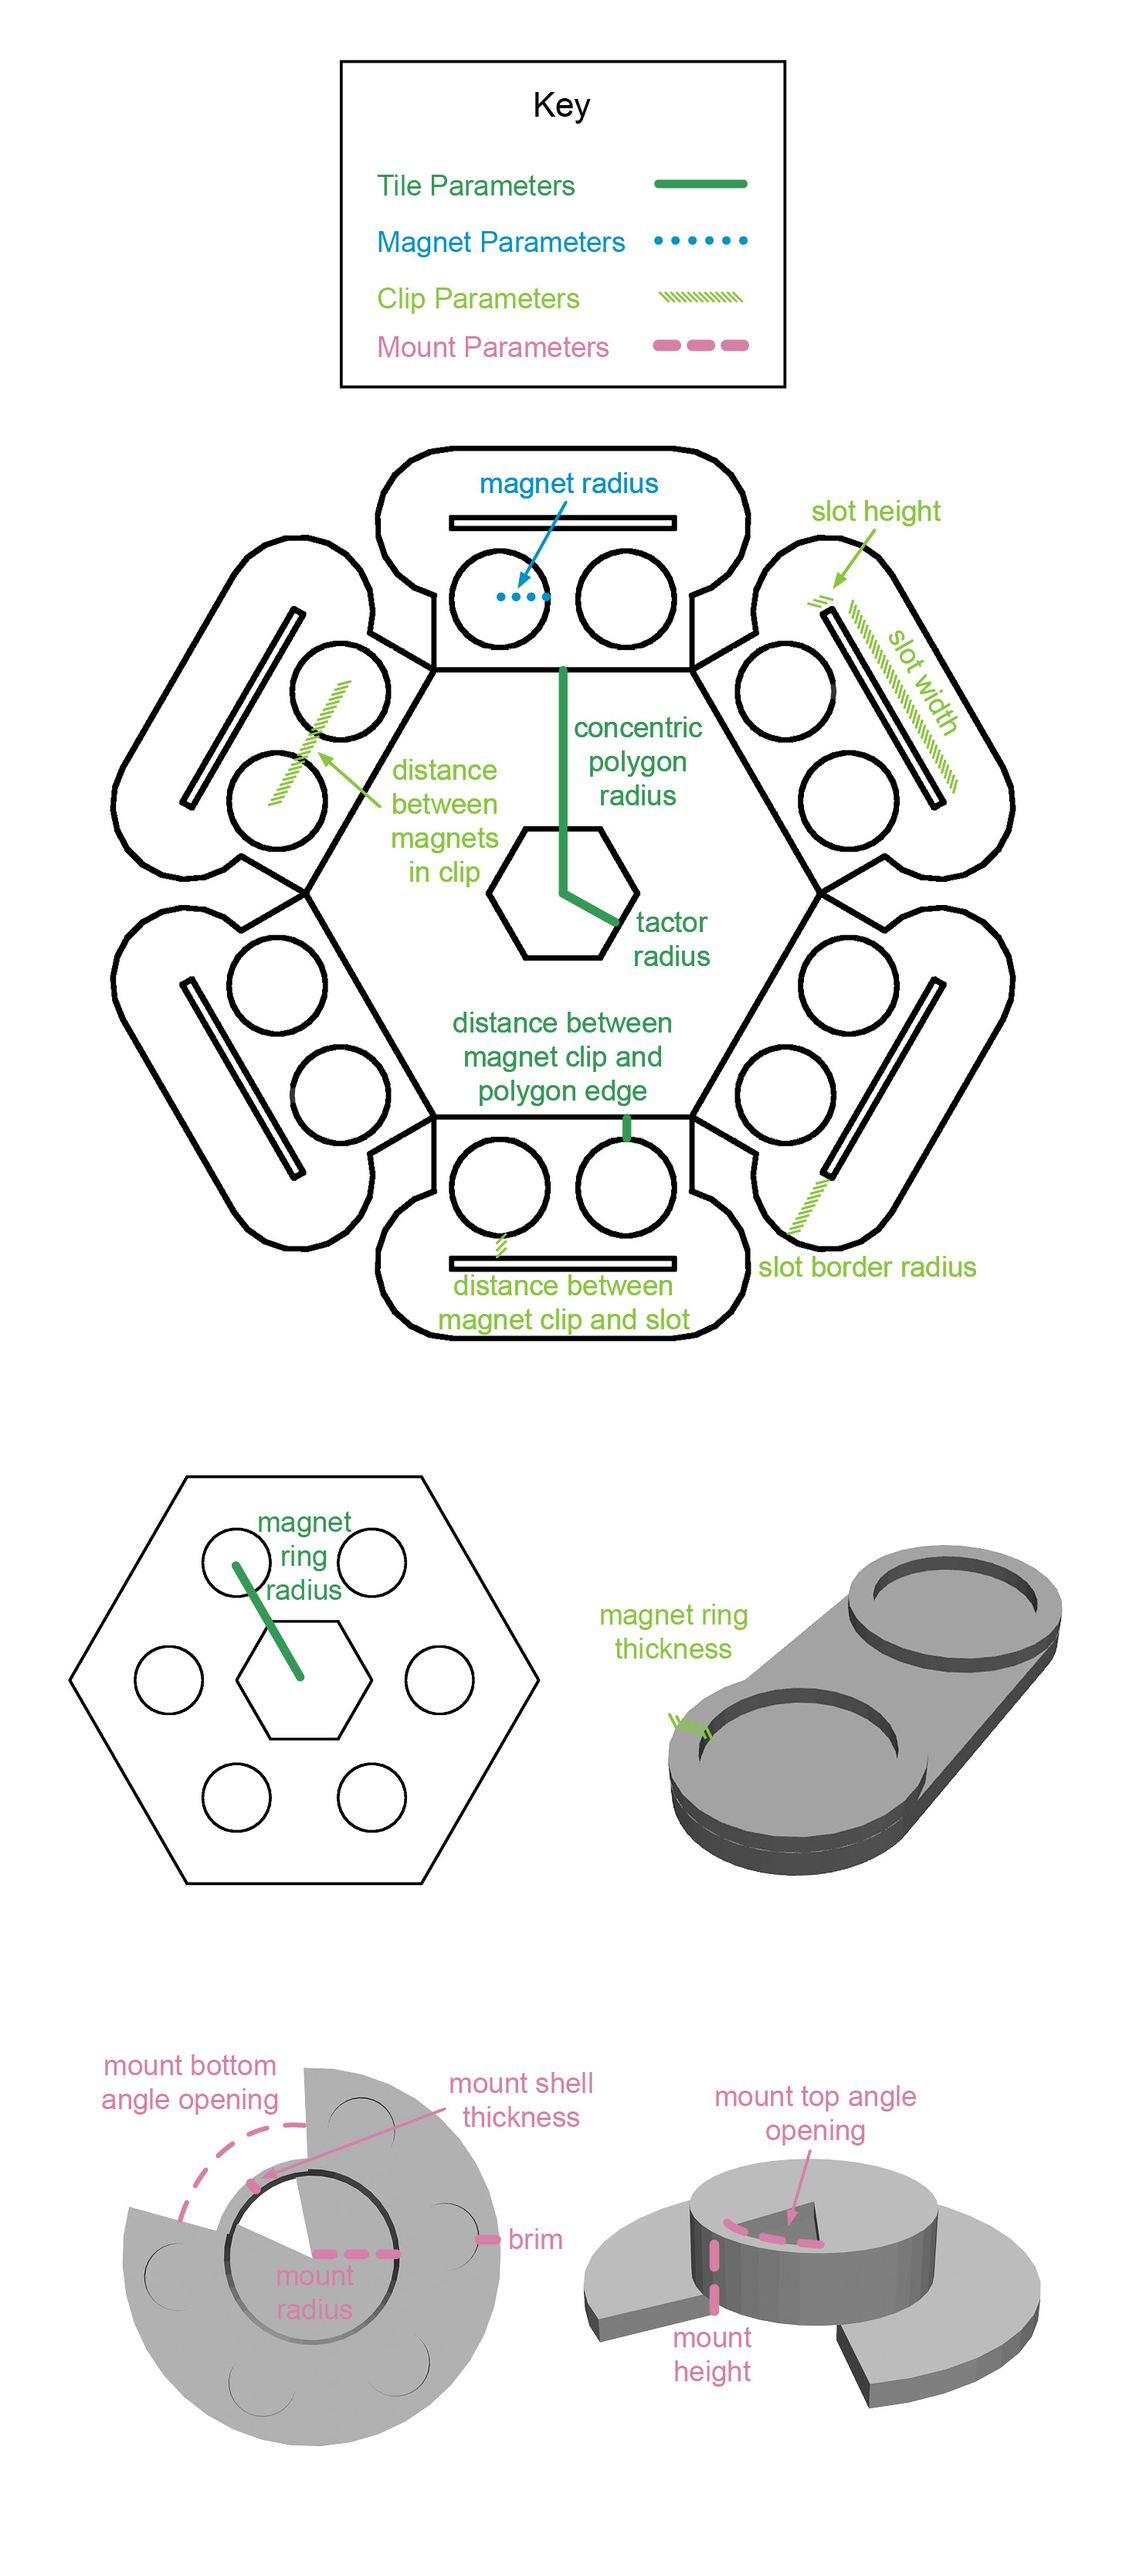
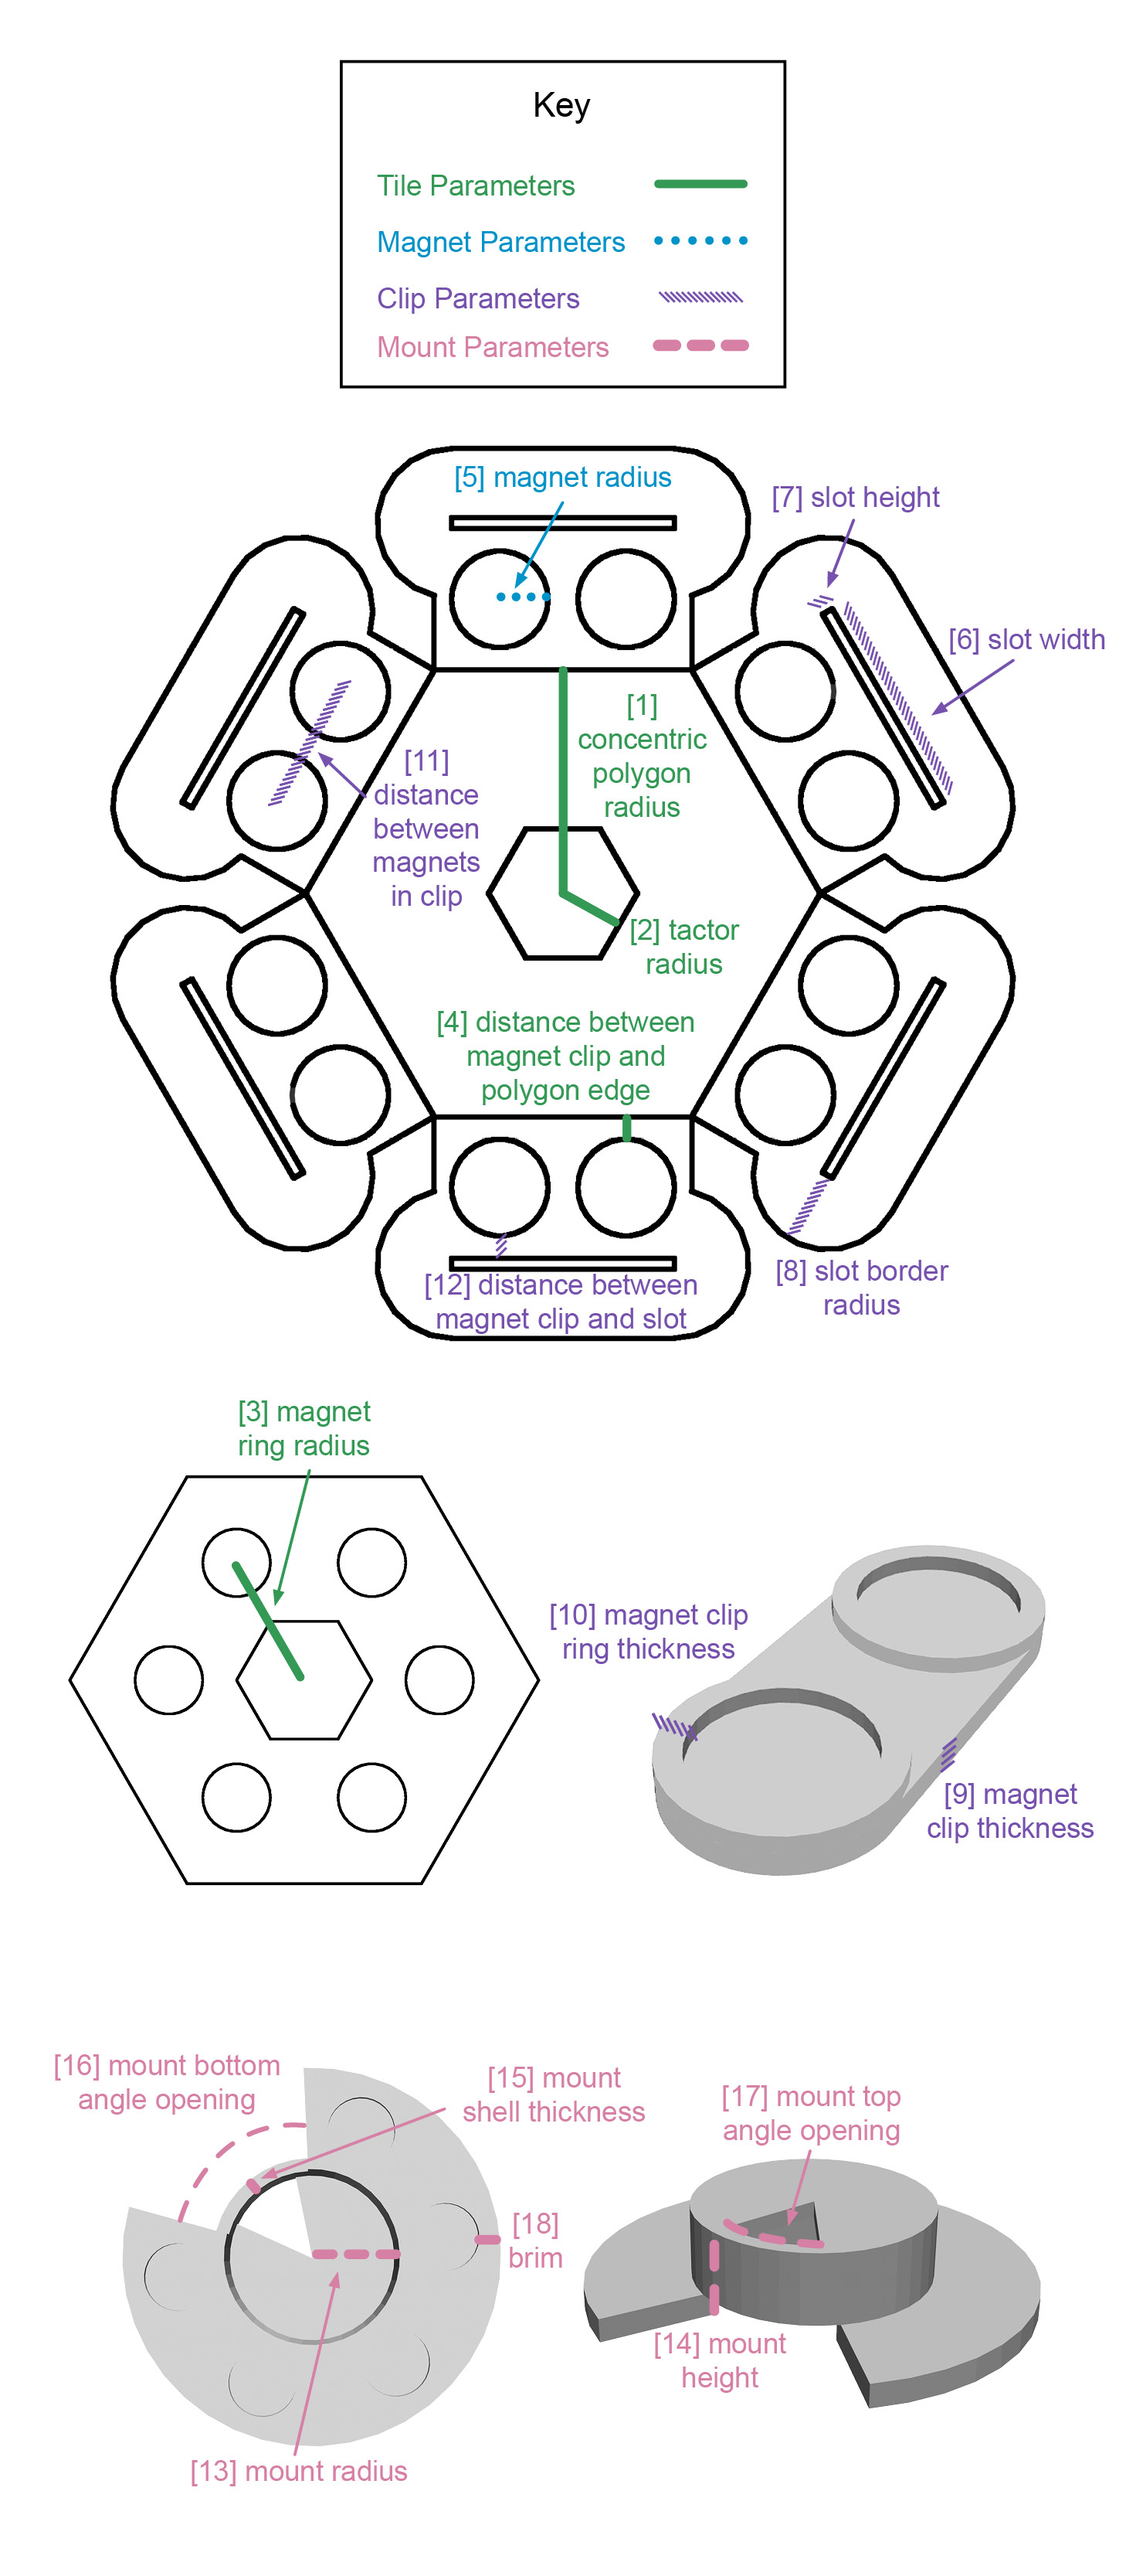
updated diagrams

diff --git a/haptic_harness_generator/GUI.py b/haptic_harness_generator/GUI.py
@@ -6,6 +6,7 @@ from time import perf_counter
 import re
 import os
 from pyvista import Camera
+import numpy as np
 
 current_dir = os.path.dirname(os.path.abspath(__file__))
 rotate_icon_path = os.path.join(current_dir, "rotateIcon.png")
@@ -116,8 +117,30 @@ class MyMainWindow(MainWindow):
             ],
         }
 
+        indexed_attrs = {
+            "concentricPolygonRadius": "1",
+            "tactorRadius": "2",
+            "magnetRingRadius": "3",
+            "distanceBetweenMagnetClipAndPolygonEdge": "4",
+            "magnetRadius": "5",
+            "slotWidth": "6",
+            "slotHeight": "7",
+            "slotBorderRadius": "8",
+            "magnetClipThickness": "9",
+            "magnetClipRingThickness": "10",
+            "distanceBetweenMagnetsInClip": "11",
+            "distanceBetweenMagnetClipAndSlot": "12",
+            "mountRadius": "13",
+            "mountHeight": "14",
+            "mountShellThickness": "15",
+            "mountBottomAngleOpening": "16",
+            "mountTopAngleOpening": "17",
+            "brim": "18",
+        }
+
         unitless = ["numMangetsInRing", "numSides"]
-        radians = ["mountBottomAngleOpening", "mountTopAngleOpening"]
+        degrees = ["mountBottomAngleOpening", "mountTopAngleOpening"]
+        counter = 0
         for header, params in parameter_attributes.items():
             temp_box = QtWidgets.QVBoxLayout()
             temp_box.setAlignment(QtCore.Qt.AlignVCenter)
@@ -130,8 +153,12 @@ class MyMainWindow(MainWindow):
                 formattedAttributeName = re.sub(
                     r"(?<!^)(?=[A-Z])", " ", attributeKey
                 ).title()
-                if attributeKey in radians:
-                    formattedAttributeName += " (radians)"
+                if attributeKey in indexed_attrs.keys():
+                    formattedAttributeName = (
+                        f"[{indexed_attrs[attributeKey]}] " + formattedAttributeName
+                    )
+                if attributeKey in degrees:
+                    formattedAttributeName += " (degrees)"
                 elif attributeKey in unitless:
                     pass
                 else:
@@ -145,6 +172,17 @@ class MyMainWindow(MainWindow):
                         )
                     )
                     le.setText(str(attributeVal))
+                elif (
+                    attributeKey == "mountBottomAngleOpening"
+                    or attributeKey == "mountTopAngleOpening"
+                ):
+                    le = QtWidgets.QLineEdit()
+                    le.setValidator(
+                        QtGui.QRegularExpressionValidator(
+                            QtCore.QRegularExpression("^\d+(\.\d+)?$")
+                        )
+                    )
+                    le.setText(str(round(attributeVal * 180 / np.pi, 2)))
                 else:
                     le = QtWidgets.QLineEdit()
                     le.setValidator(

diff --git a/haptic_harness_generator/Generator.py b/haptic_harness_generator/Generator.py
@@ -112,12 +112,36 @@ class Generator(QRunnable):
     def validate(self):
         messages = []
         tolerance = 1
+        validatable = [
+            "concentricPolygonRadius",
+            "tactorRadius",
+            "numSides",
+            "slotWidth",
+            "slotHeight",
+            "slotBorderRadius",
+            "magnetRadius",
+            "magnetThickness",
+            "magnetRingRadius",
+            "numMangetsInRing",
+            "magnetClipThickness",
+            "magnetClipRingThickness",
+            "distanceBetweenMagnetsInClip",
+            "distanceBetweenMagnetClipAndPolygonEdge",
+            "distanceBetweenMagnetClipAndSlot",
+            "foamThickness",
+            "mountRadius",
+            "mountHeight",
+            "mountShellThickness",
+            "mountBottomAngleOpening",
+            "mountTopAngleOpening",
+            "brim",
+        ]
 
         if self.numSides < 2 or self.numSides > 8:
             messages.append("numSides must be between 2 and 8 inclusive")
 
         for attr, val in vars(self).items():
-            if attr != "userDir" and (val <= 0 or val == None):
+            if attr in validatable and (val <= 0 or val == None):
                 messages.append(f"{attr} must be some positive non-zero value")
 
         if self.tactorRadius >= self.concentricPolygonRadius:
@@ -223,6 +247,13 @@ class Generator(QRunnable):
         else:
             if attrName == "numSides" or attrName == "numMangetsInRing":
                 setattr(self, attrName, int(val))
+            elif (
+                attrName == "mountBottomAngleOpening"
+                or attrName == "mountTopAngleOpening"
+            ):
+                setattr(
+                    self, attrName, float(val) * np.pi / 180
+                )  # convert from degrees to radians
             else:
                 setattr(self, attrName, float(val))
 
